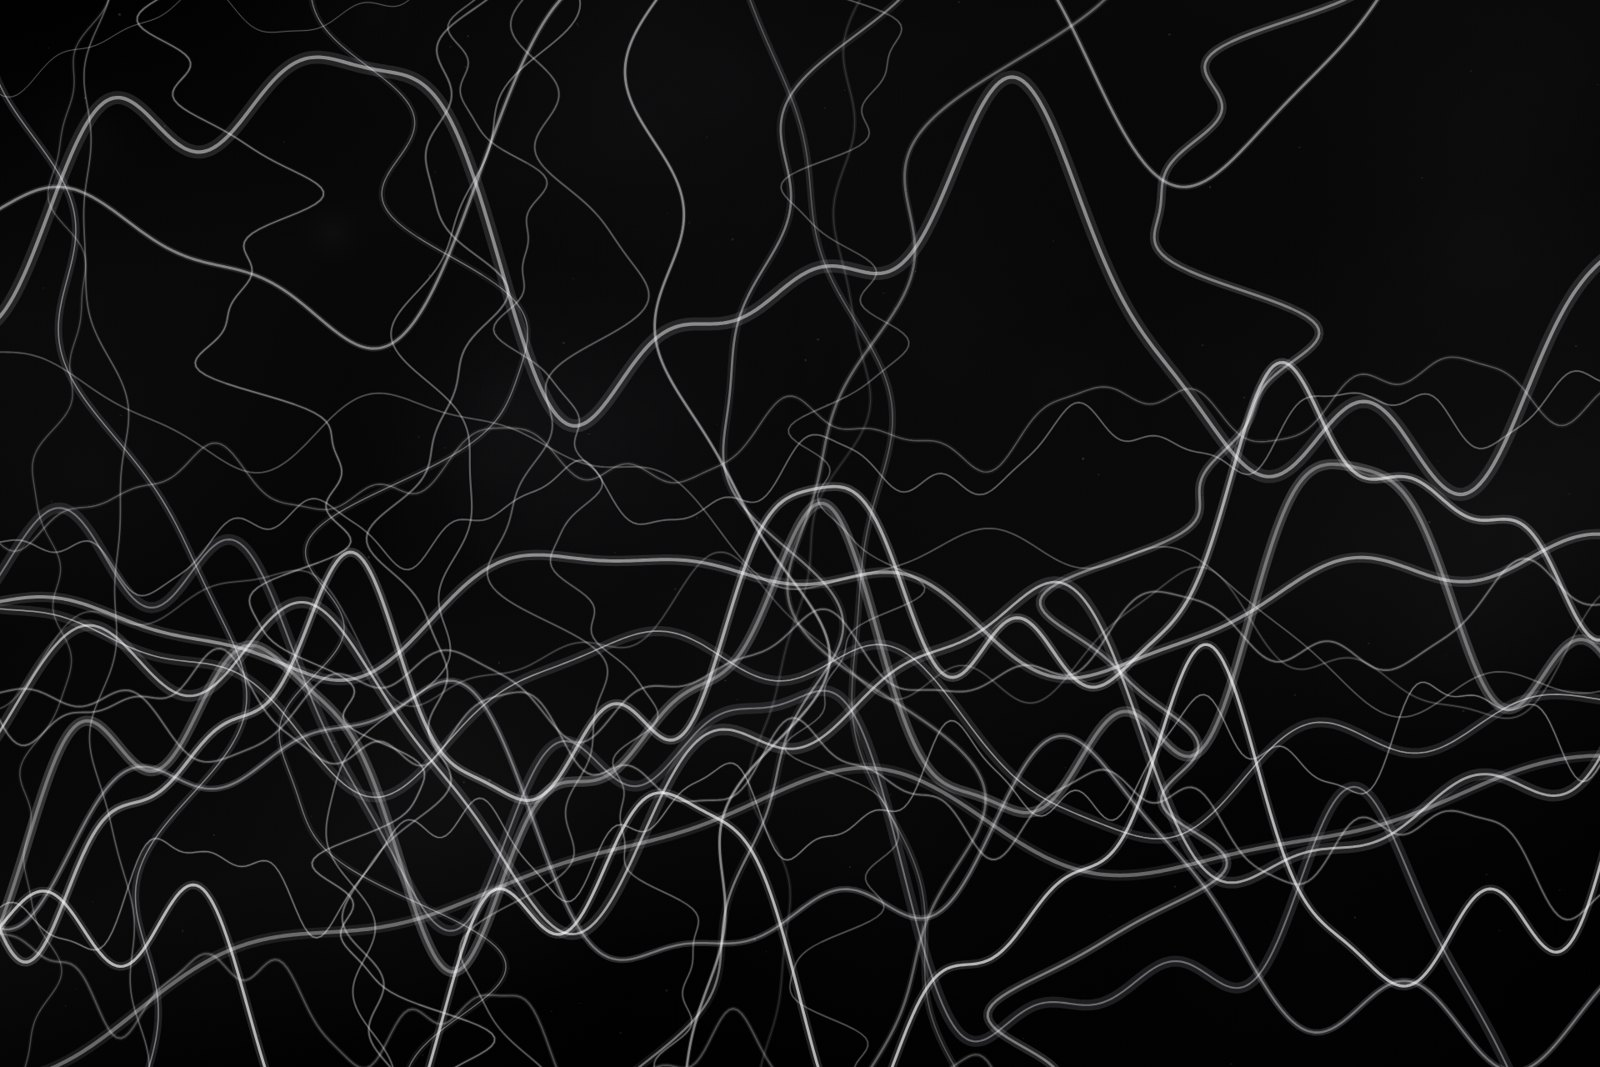
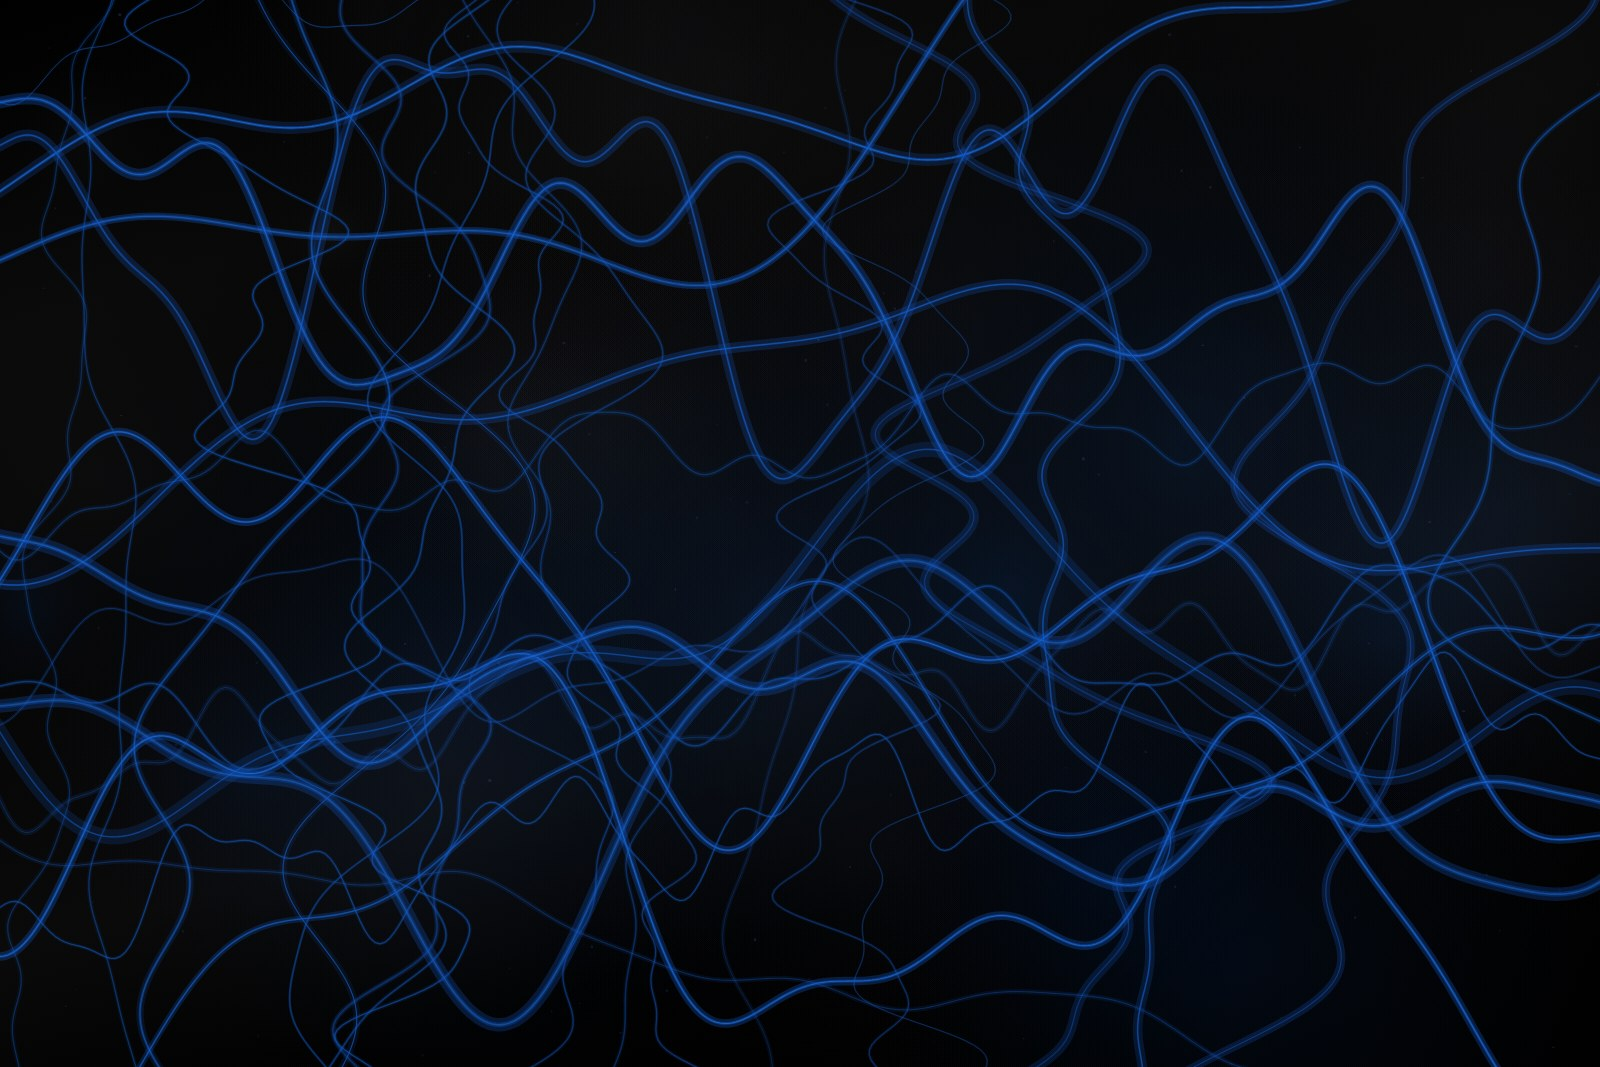
Use cobalt blue marble veins instead of white streaks
Update vial backdrops and the Undisclosed page marble texture
to WellPept cobalt (#0047ab) veining on black stone.

diff --git a/src/utils/vialArt.js b/src/utils/vialArt.js
@@ -280,7 +280,7 @@ export function resolveVialUnit({ name = "", form = "", unit } = {}) {
   return "mg";
 }
 
-/** Classic black marble slab with bright white vein streaks. */
+/** Classic black marble slab with cobalt blue vein streaks. */
 function drawBlackMarbleBackground(ctx, w, h, seed = 42) {
   const base = ctx.createLinearGradient(0, 0, w * 0.2, h);
   base.addColorStop(0, "#000000");
@@ -301,6 +301,20 @@ function drawBlackMarbleBackground(ctx, w, h, seed = 42) {
     const g = ctx.createRadialGradient(x, y, 0, x, y, r);
     const c = 18 + Math.floor(rand() * 36);
     g.addColorStop(0, `rgba(${c},${c},${c + 4},${0.1 + rand() * 0.14})`);
+    g.addColorStop(1, "rgba(0,0,0,0)");
+    ctx.fillStyle = g;
+    ctx.beginPath();
+    ctx.arc(x, y, r, 0, Math.PI * 2);
+    ctx.fill();
+  }
+
+  // Soft cobalt pools in the stone
+  for (let i = 0; i < 10; i += 1) {
+    const x = rand() * w;
+    const y = rand() * h;
+    const r = 80 + rand() * Math.max(w, h) * 0.28;
+    const g = ctx.createRadialGradient(x, y, 0, x, y, r);
+    g.addColorStop(0, `rgba(0,71,171,${0.06 + rand() * 0.08})`);
     g.addColorStop(1, "rgba(0,0,0,0)");
     ctx.fillStyle = g;
     ctx.beginPath();
@@ -351,18 +365,24 @@ function drawBlackMarbleBackground(ctx, w, h, seed = 42) {
         } else ctx.lineTo(x, y);
       }
     }
-    ctx.strokeStyle = `rgba(220,220,228,${glowA})`;
+    // Soft cobalt outer glow
+    ctx.strokeStyle = `rgba(26,95,212,${glowA})`;
     ctx.lineWidth = glowW;
     ctx.stroke();
-    ctx.strokeStyle = `rgba(255,255,255,${coreA})`;
+    // Bright cobalt core streak
+    ctx.strokeStyle = `rgba(0,71,171,${coreA})`;
     ctx.lineWidth = coreW;
+    ctx.stroke();
+    // Thin brighter highlight along the vein
+    ctx.strokeStyle = `rgba(90,150,235,${coreA * 0.55})`;
+    ctx.lineWidth = Math.max(0.6, coreW * 0.35);
     ctx.stroke();
   };
 
   ctx.lineCap = "round";
   ctx.lineJoin = "round";
 
-  // Primary white marble veins — clearly readable streaks
+  // Primary cobalt marble veins
   for (let i = 0; i < 11; i += 1) {
     strokeVein({
       yStart: rand() * h,
@@ -372,9 +392,9 @@ function drawBlackMarbleBackground(ctx, w, h, seed = 42) {
       slope: (rand() - 0.5) * 0.65,
       step: 4,
       glowW: 6 + rand() * 10,
-      glowA: 0.1 + rand() * 0.12,
+      glowA: 0.14 + rand() * 0.16,
       coreW: 1.6 + rand() * 3.2,
-      coreA: 0.32 + rand() * 0.38,
+      coreA: 0.42 + rand() * 0.4,
       vertical: false,
     });
   }
@@ -389,9 +409,9 @@ function drawBlackMarbleBackground(ctx, w, h, seed = 42) {
       slope: (rand() - 0.5) * 0.5,
       step: 5,
       glowW: 4 + rand() * 7,
-      glowA: 0.07 + rand() * 0.1,
+      glowA: 0.1 + rand() * 0.12,
       coreW: 1 + rand() * 2.2,
-      coreA: 0.22 + rand() * 0.28,
+      coreA: 0.3 + rand() * 0.32,
       vertical: true,
     });
   }
@@ -406,16 +426,16 @@ function drawBlackMarbleBackground(ctx, w, h, seed = 42) {
       slope: (rand() - 0.5) * 0.45,
       step: 5,
       glowW: 2 + rand() * 3.5,
-      glowA: 0.05 + rand() * 0.07,
+      glowA: 0.07 + rand() * 0.09,
       coreW: 0.7 + rand() * 1.5,
-      coreA: 0.16 + rand() * 0.22,
+      coreA: 0.22 + rand() * 0.28,
       vertical: rand() > 0.55,
     });
   }
 
-  // Mineral flecks / sparkle in the stone
+  // Mineral flecks — cobalt sparkle in the stone
   for (let i = 0; i < 110; i += 1) {
-    ctx.fillStyle = `rgba(255,255,255,${0.04 + rand() * 0.1})`;
+    ctx.fillStyle = `rgba(90,150,235,${0.05 + rand() * 0.12})`;
     ctx.fillRect(rand() * w, rand() * h, 1 + rand() * 2, 1 + rand() * 2);
   }
 }
